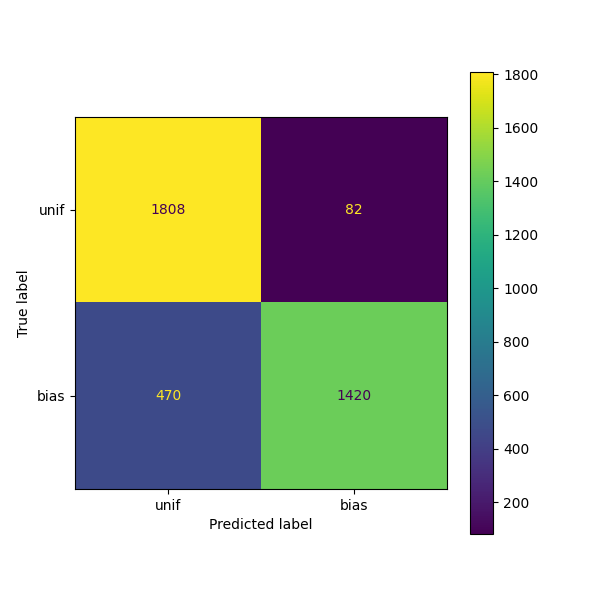
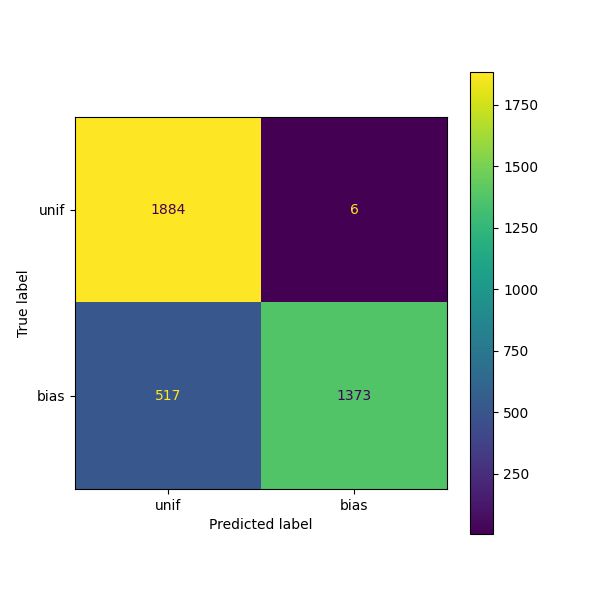
results dim 20

diff --git a/BIAS/SB_Toolbox.py b/BIAS/SB_Toolbox.py
@@ -441,12 +441,13 @@ class BIAS:
             x = np.sort(data[:, d])
             x = np.expand_dims([x], axis=2)
             preds.append(self.deepmodel.predict(x, verbose=0))
-        decisions = np.argmax(np.array(preds).reshape(-1, 5), axis=1) > 0
-
+        preds = np.array(preds)
+        decisions = np.argmax(preds.reshape(-1,5), axis=1) > 0
+        #print(decisions)
         if np.mean(decisions) <= 0.1:
             y = 'unif'
         else:
-            pred_mean = np.mean(preds[1:], axis=0)
+            pred_mean = np.mean(preds, axis=0)
             y = self.targetnames[np.argmax(pred_mean.flatten()[1:])+1]
 
         if include_proba:

diff --git a/class_rates.py b/class_rates.py
@@ -54,7 +54,7 @@ class deepbiasmodel(MLPClassifier):
     def predict(self, X):
         y = []
         for x in tqdm(X):
-            pred = self.test.predict_deep(x, include_proba=False)[0]
+            pred, proba = self.test.predict_deep(x, include_proba=True)
             if (pred == "unif"):
                 class_pred = 0
             else:
